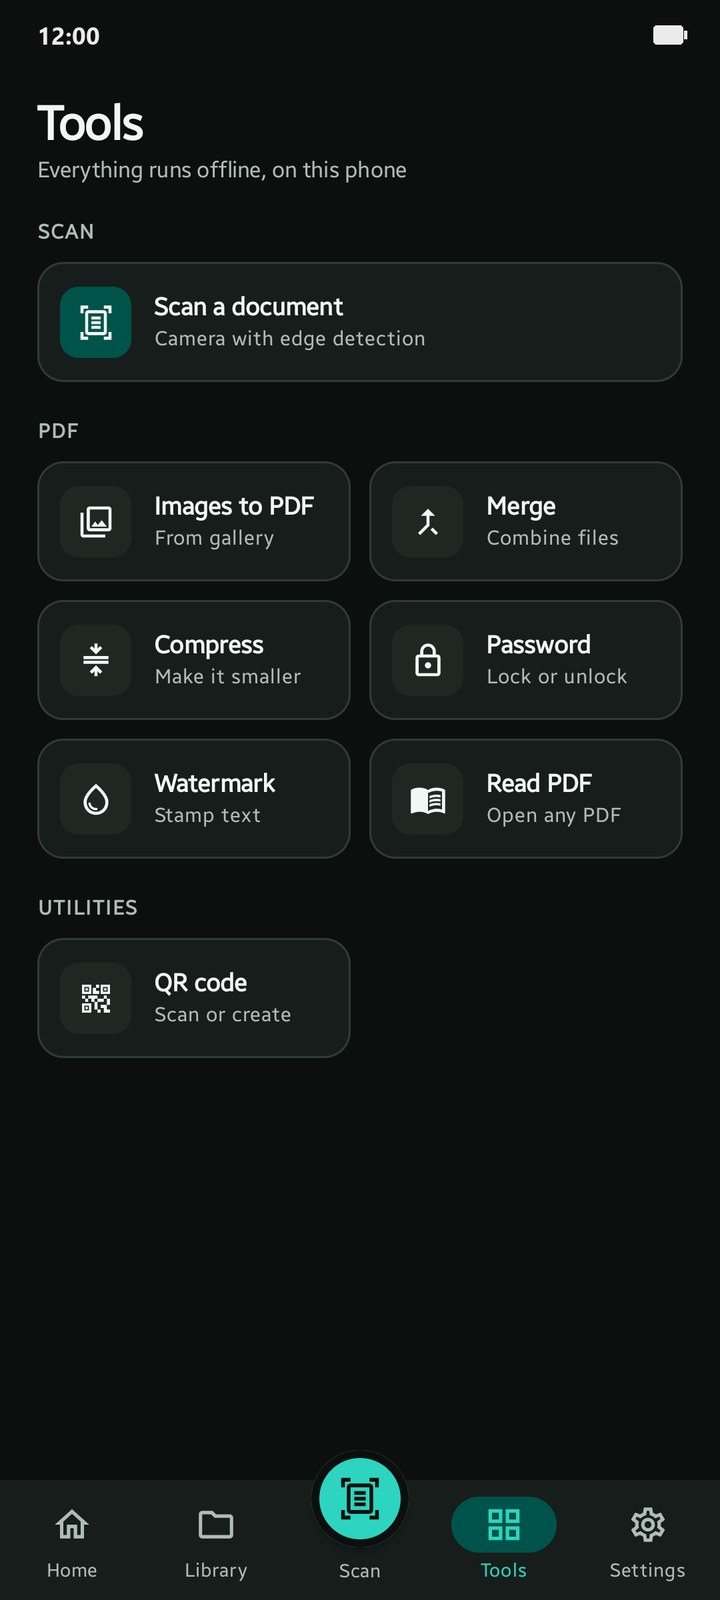
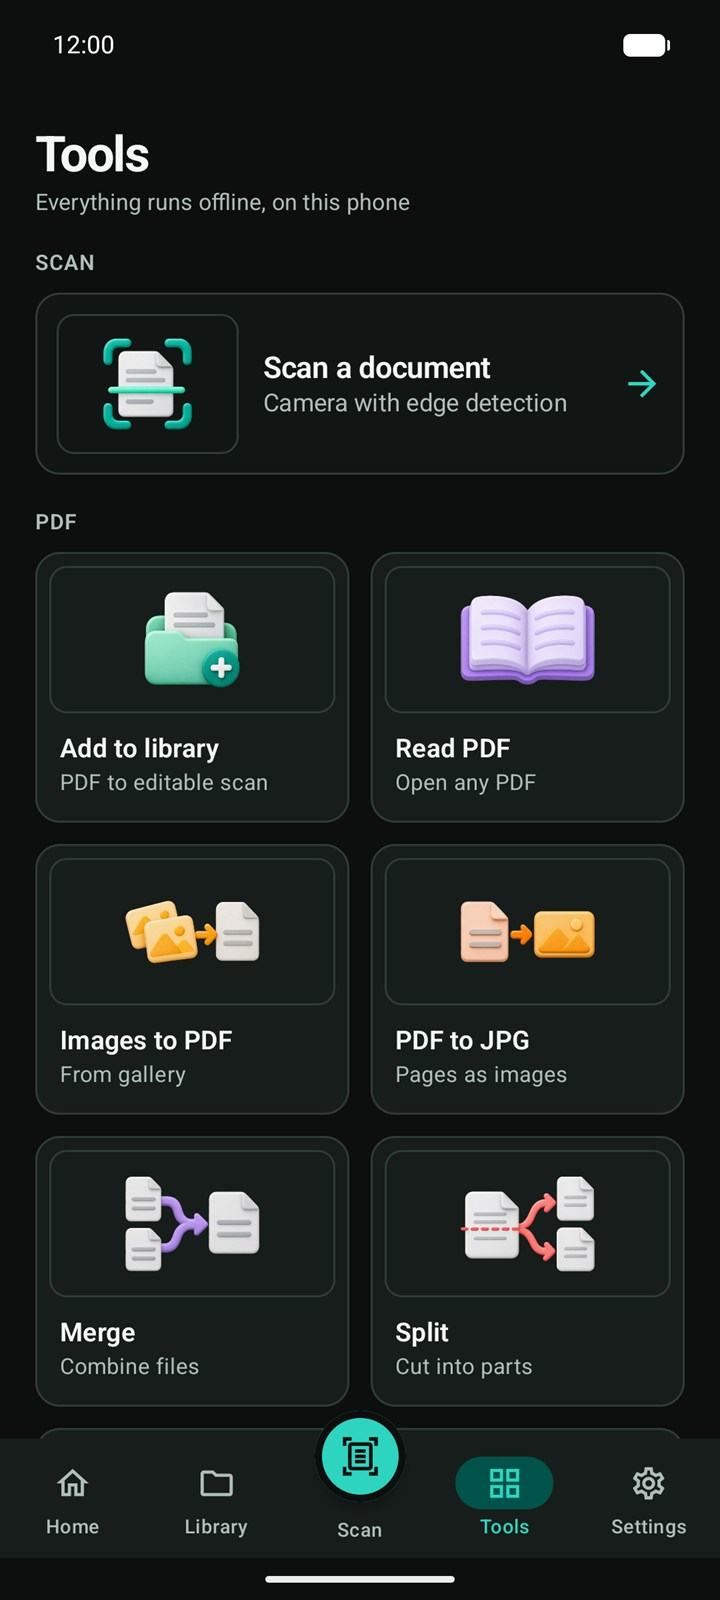
Feature/v1.0.21 (#20)
* updated strings.xml file & onboarding flow & ui.

* Redesign onboarding and retire legacy assets

Use Paper Atelier screens with native Pip, localized copy, a contained
non-interactive search example and circular pagination focus feedback.
The final action starts scanning after camera access is granted while
preserving pending PDF and shortcut destinations.

Remove three retired PNG illustrations and 250 unused strings across
25 languages. Tidy imports, onboarding documentation and QA notes.

Validation: debug app and test APK builds, Android lint and 627 unit tests.
The unchanged UI passed 26 emulator checks before this resource cleanup.

* added new tool (split pdf) to the tools and also improved visual representations of each tool cards.

* added new tool (split pdf) to the tools and also improved visual representations of each tool cards.

* Working on tools ui improvements.

* updated tools icon art style.

* Feature/improving smoothness (#18)

* analysed and improve the camera preview and detection flows. added smoothness to overall app.

* added smoothness and fixed translations and added welcome screen

* updated screenshots

diff --git a/README.md b/README.md
@@ -66,7 +66,7 @@ It is designed for a practical, local-only scanning workflow:
   </tr>
   <tr>
 	<td><img src="screenshots/mobile/image-7.jpeg" alt="Scanly mobile screenshot 7" width="100%" /></td>
-	<td></td>
+	<td><img src="screenshots/mobile/image-8.jpeg" alt="Scanly mobile screenshot 8" width="100%" /></td>
 	<td></td>
   </tr>
 </table>
